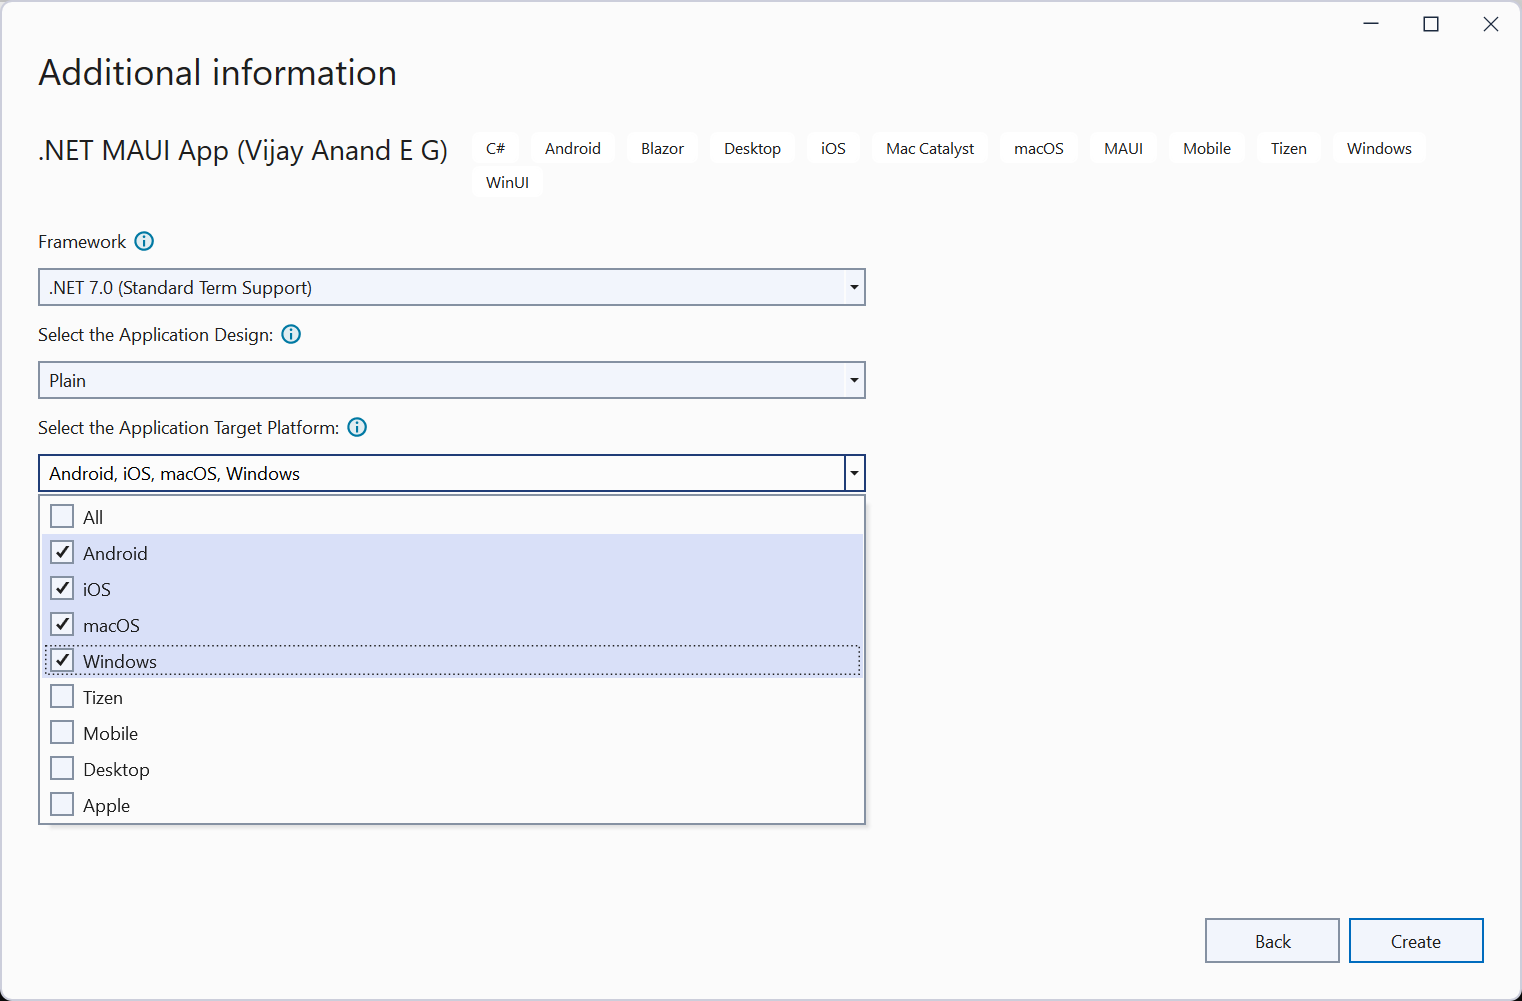
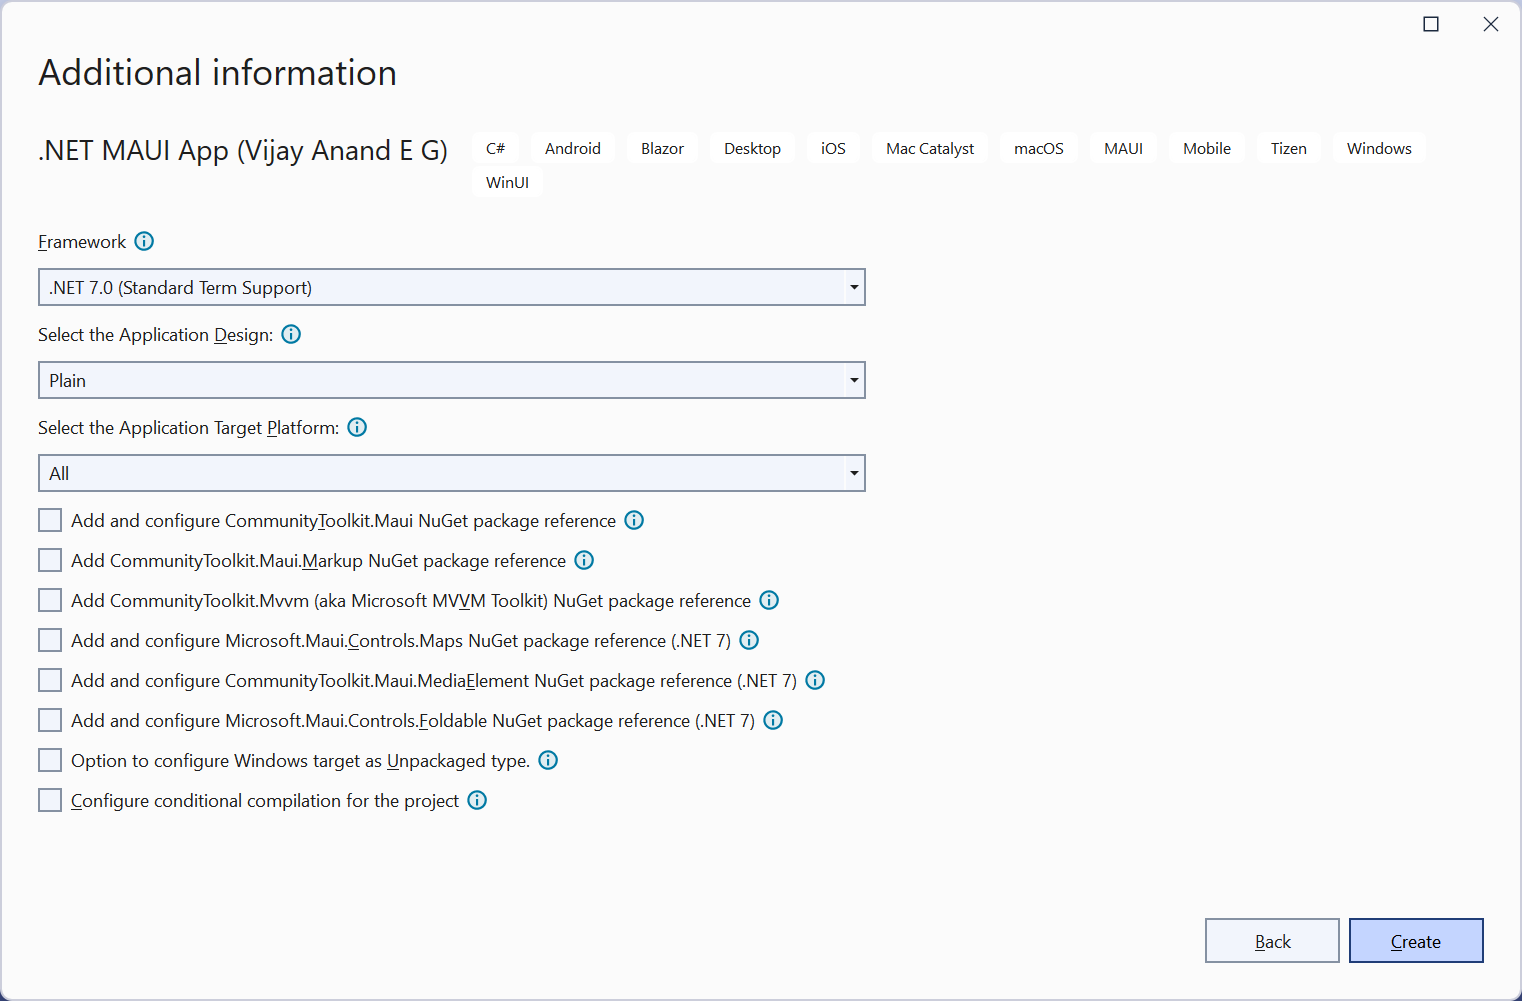
Option to add and configure MediaElement to .NET MAUI App

Changed region(s): [[0.0, 0.4645, 0.5867, 0.8362], [0.8647, 0.8981, 0.9882, 0.96], [0.9882, 0.991, 1.0, 1.0]]

diff --git a/src/MauiTemplatesCLI/MauiAppX/MauiProgram.cs b/src/MauiTemplatesCLI/MauiAppX/MauiProgram.cs
@@ -1,4 +1,4 @@
-#if AddToolkitPackage
+#if (AddToolkitPackage || AddMediaPackage)
 using CommunityToolkit.Maui;
 #endif
 #if Hybrid
@@ -32,6 +32,9 @@ namespace MauiApp._1
 #endif
 #if AddMarkupPackage
                    .UseMauiCommunityToolkitMarkup()
+#endif
+#if AddMediaPackage
+                   .UseMauiCommunityToolkitMediaElement()
 #endif
                    .ConfigureFonts(fonts =>
                    {

diff --git a/README.md b/README.md
@@ -7,7 +7,7 @@ We all know that .NET MAUI is an evolution of Xamarin.Forms.
 
 Release Channel:
 
-On .NET 6, `.NET MAUI SR8 (6.0.548)` and on .NET 7, `.NET MAUI SR1.1 (7.0.52)` is now released on Tue, Dec 13, 2022 along with VS2022 17.4.3 and 17.5.0 Preview 2.0
+On .NET 6, `.NET MAUI SR9 (6.0.550)` and on .NET 7, `.NET MAUI SR2 (7.0.58)` is now released on Wed, Jan 18, 2023 along with VS2022 17.4.4 and 17.5.0 Preview 3.0
 
 <!-- And on the Preview channel, `.NET MAUI 7.0.0-rc.2.6866 (.NET 7 RC2)` is now released on Tue, Oct 18, 2022 along with VS2022 17.4 Preview 4.0 -->
 
@@ -163,12 +163,13 @@ The target for the Windows platform can be either `Package` (MSIX) or `Unpackage
 
 * `-wu` | `--windows-unpackaged` - Default is `false`
 
-While targeting `.NET 7`, an option to add and configure `Microsoft.Maui.Controls.Foldable`, `Microsoft.Maui.Controls.Maps`, or both NuGet packages.
+While targeting `.NET 7`, an option to add and configure `CommunityToolkit.Maui.MediaElement`, `Microsoft.Maui.Controls.Foldable`, `Microsoft.Maui.Controls.Maps`, or all NuGet packages.
 
+* `-ime` | `--include-media-element` - Default is `false`
 * `-if` | `--include-foldable` - Default is `false`
 * `-inm` | `--include-maps` - Default is `false`
 
-*Note: If the project target `.NET 6`, selecting the Foldable/Maps option will NOT have any impact.*
+*Note: If the project target `.NET 6`, selecting the MediaElement/Foldable/Maps option will NOT have any impact.*
 
 ##### Conditional Compilation
 
@@ -315,7 +316,7 @@ dotnet new mauiapp -n MyApp -dp Hybrid
 ```
 Option to include NuGet packages:
 ```shell
-dotnet new mauiapp -n MyApp -dp Shell -it -im -imt -inm -if
+dotnet new mauiapp -n MyApp -dp Shell -it -im -imt -ime -inm -if
 ```
 Option to configure conditional compilation:
 ```shell
@@ -378,7 +379,7 @@ dotnet new mauiapp --name MyApp --design-pattern Hybrid
 ```
 Option to include NuGet packages:
 ```shell
-dotnet new mauiapp --name MyApp --design-pattern Shell --include-toolkit --include-markup --include-mvvm-toolkit --include-maps --include-foldable
+dotnet new mauiapp --name MyApp --design-pattern Shell --include-toolkit --include-markup --include-mvvm-toolkit --include-media-element --include-maps --include-foldable
 ```
 ```shell
 dotnet new mauiapp -n MyApp --design-pattern Shell --conditional-compilation
